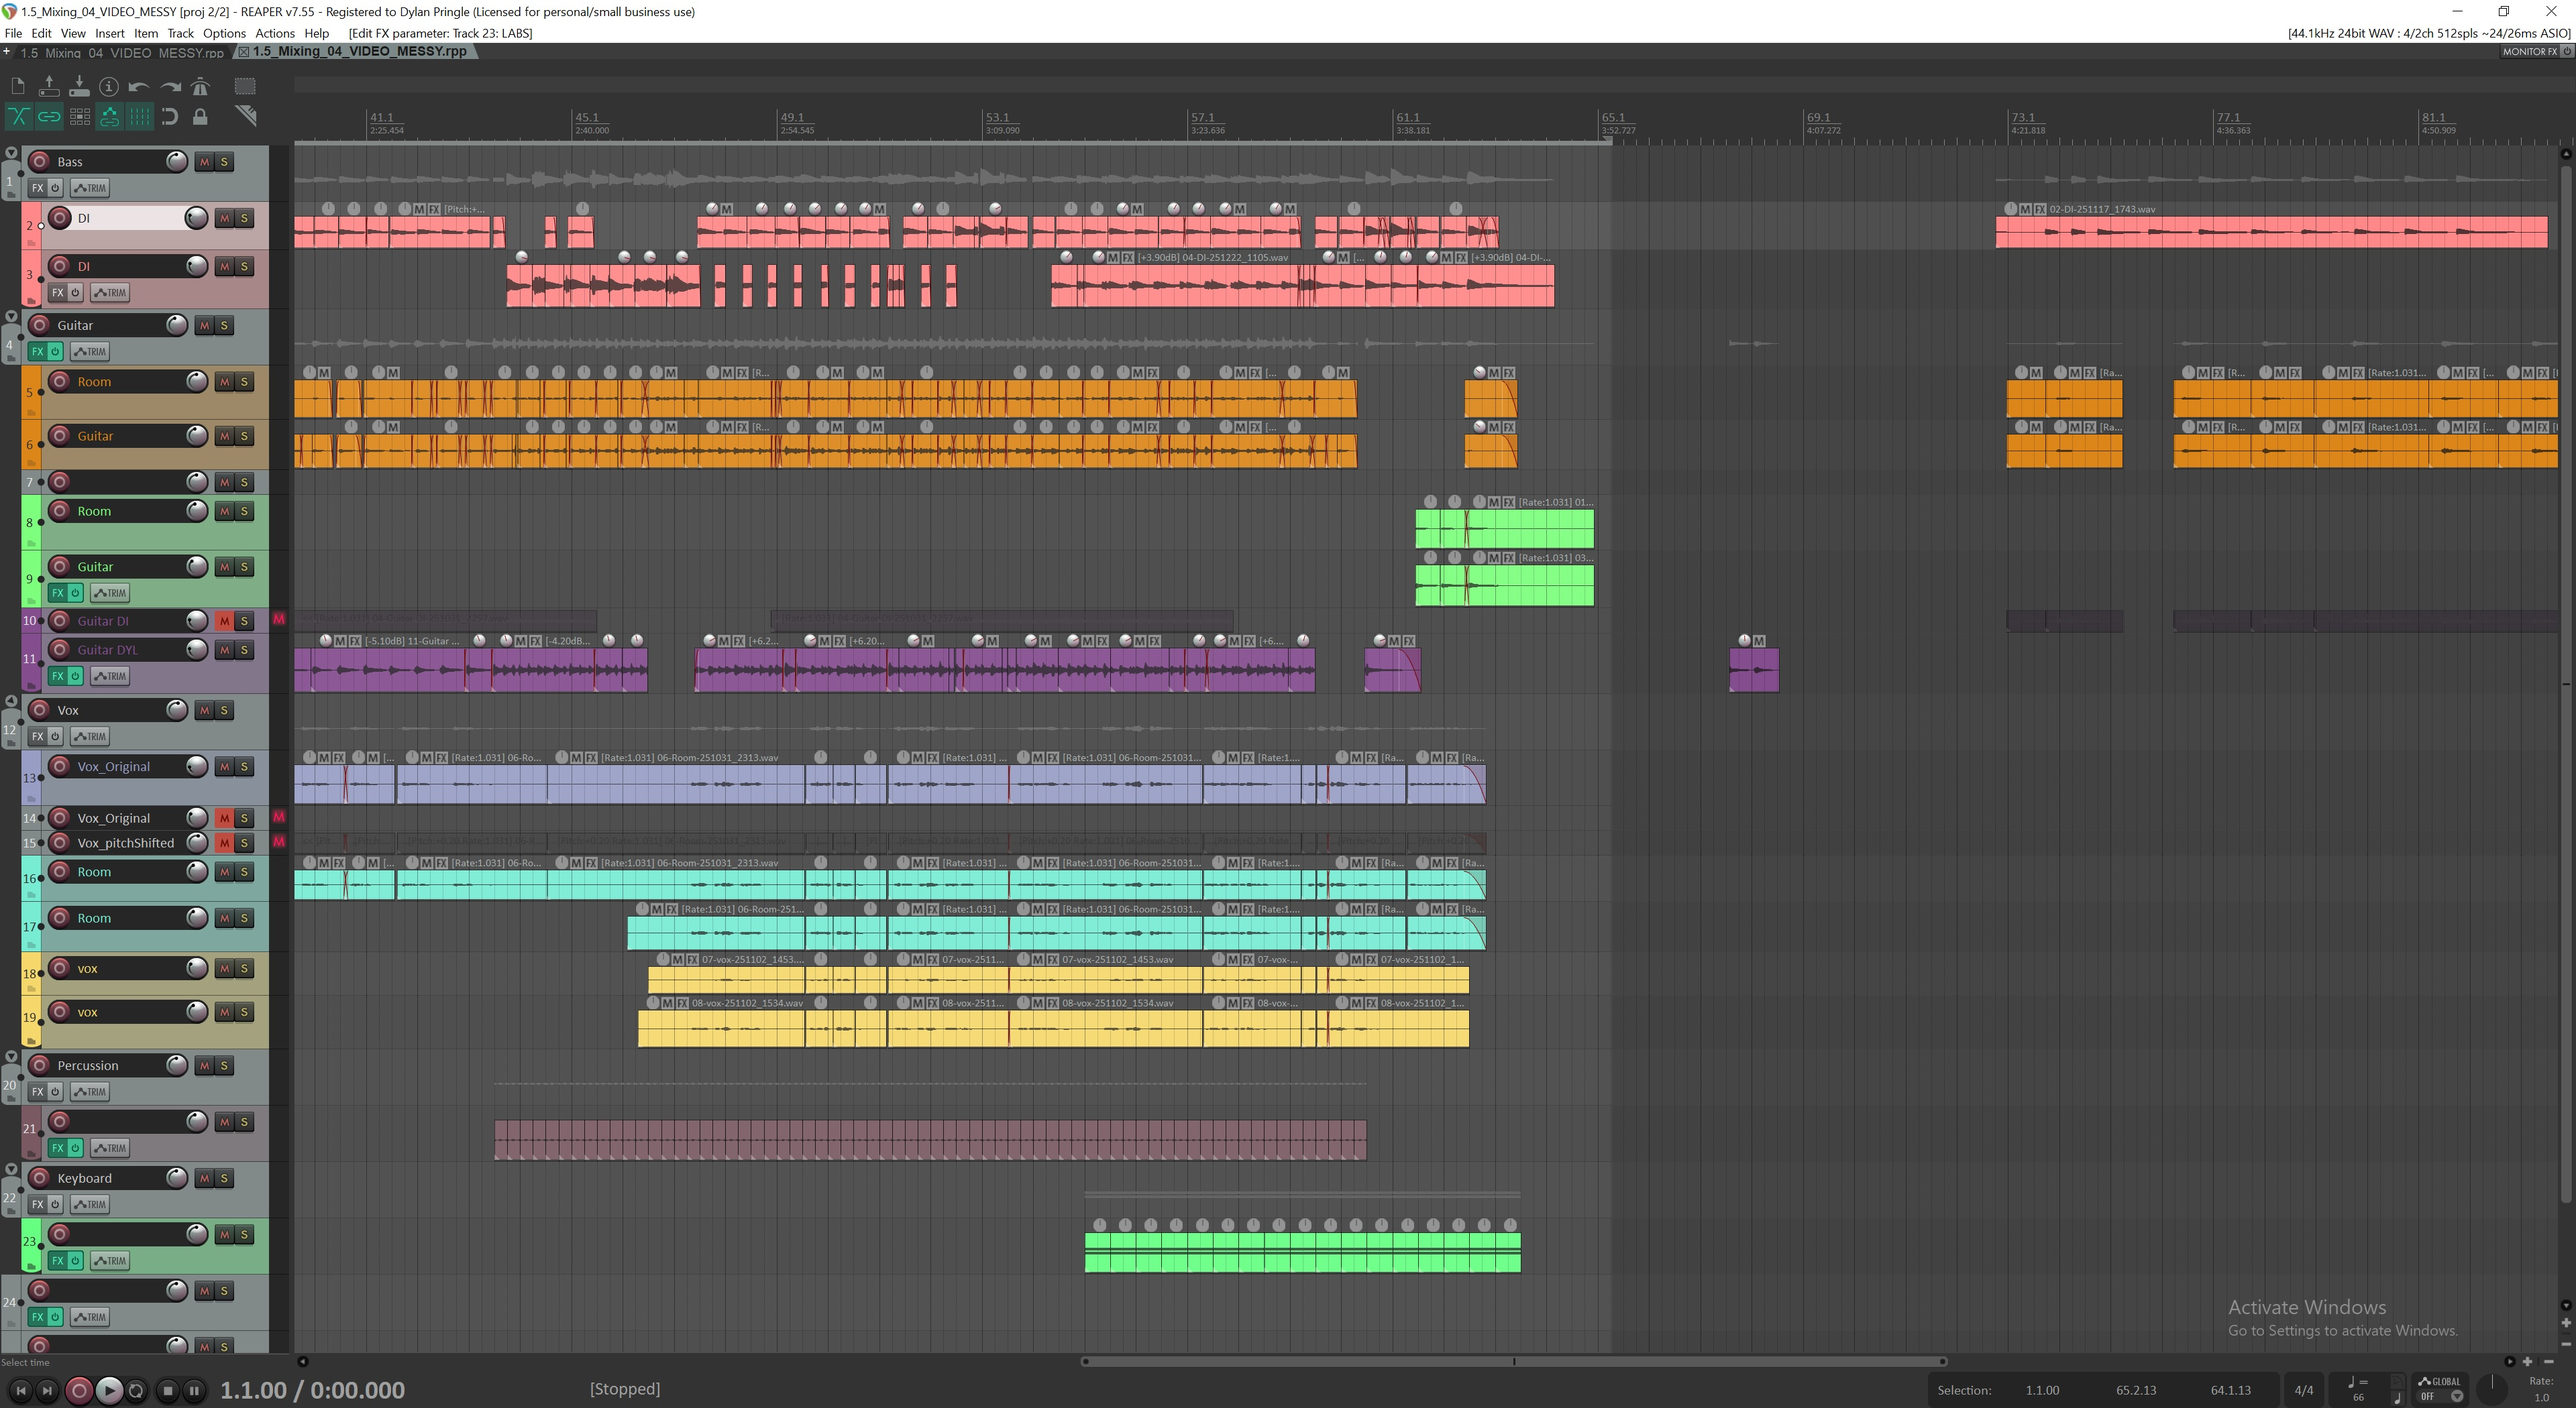
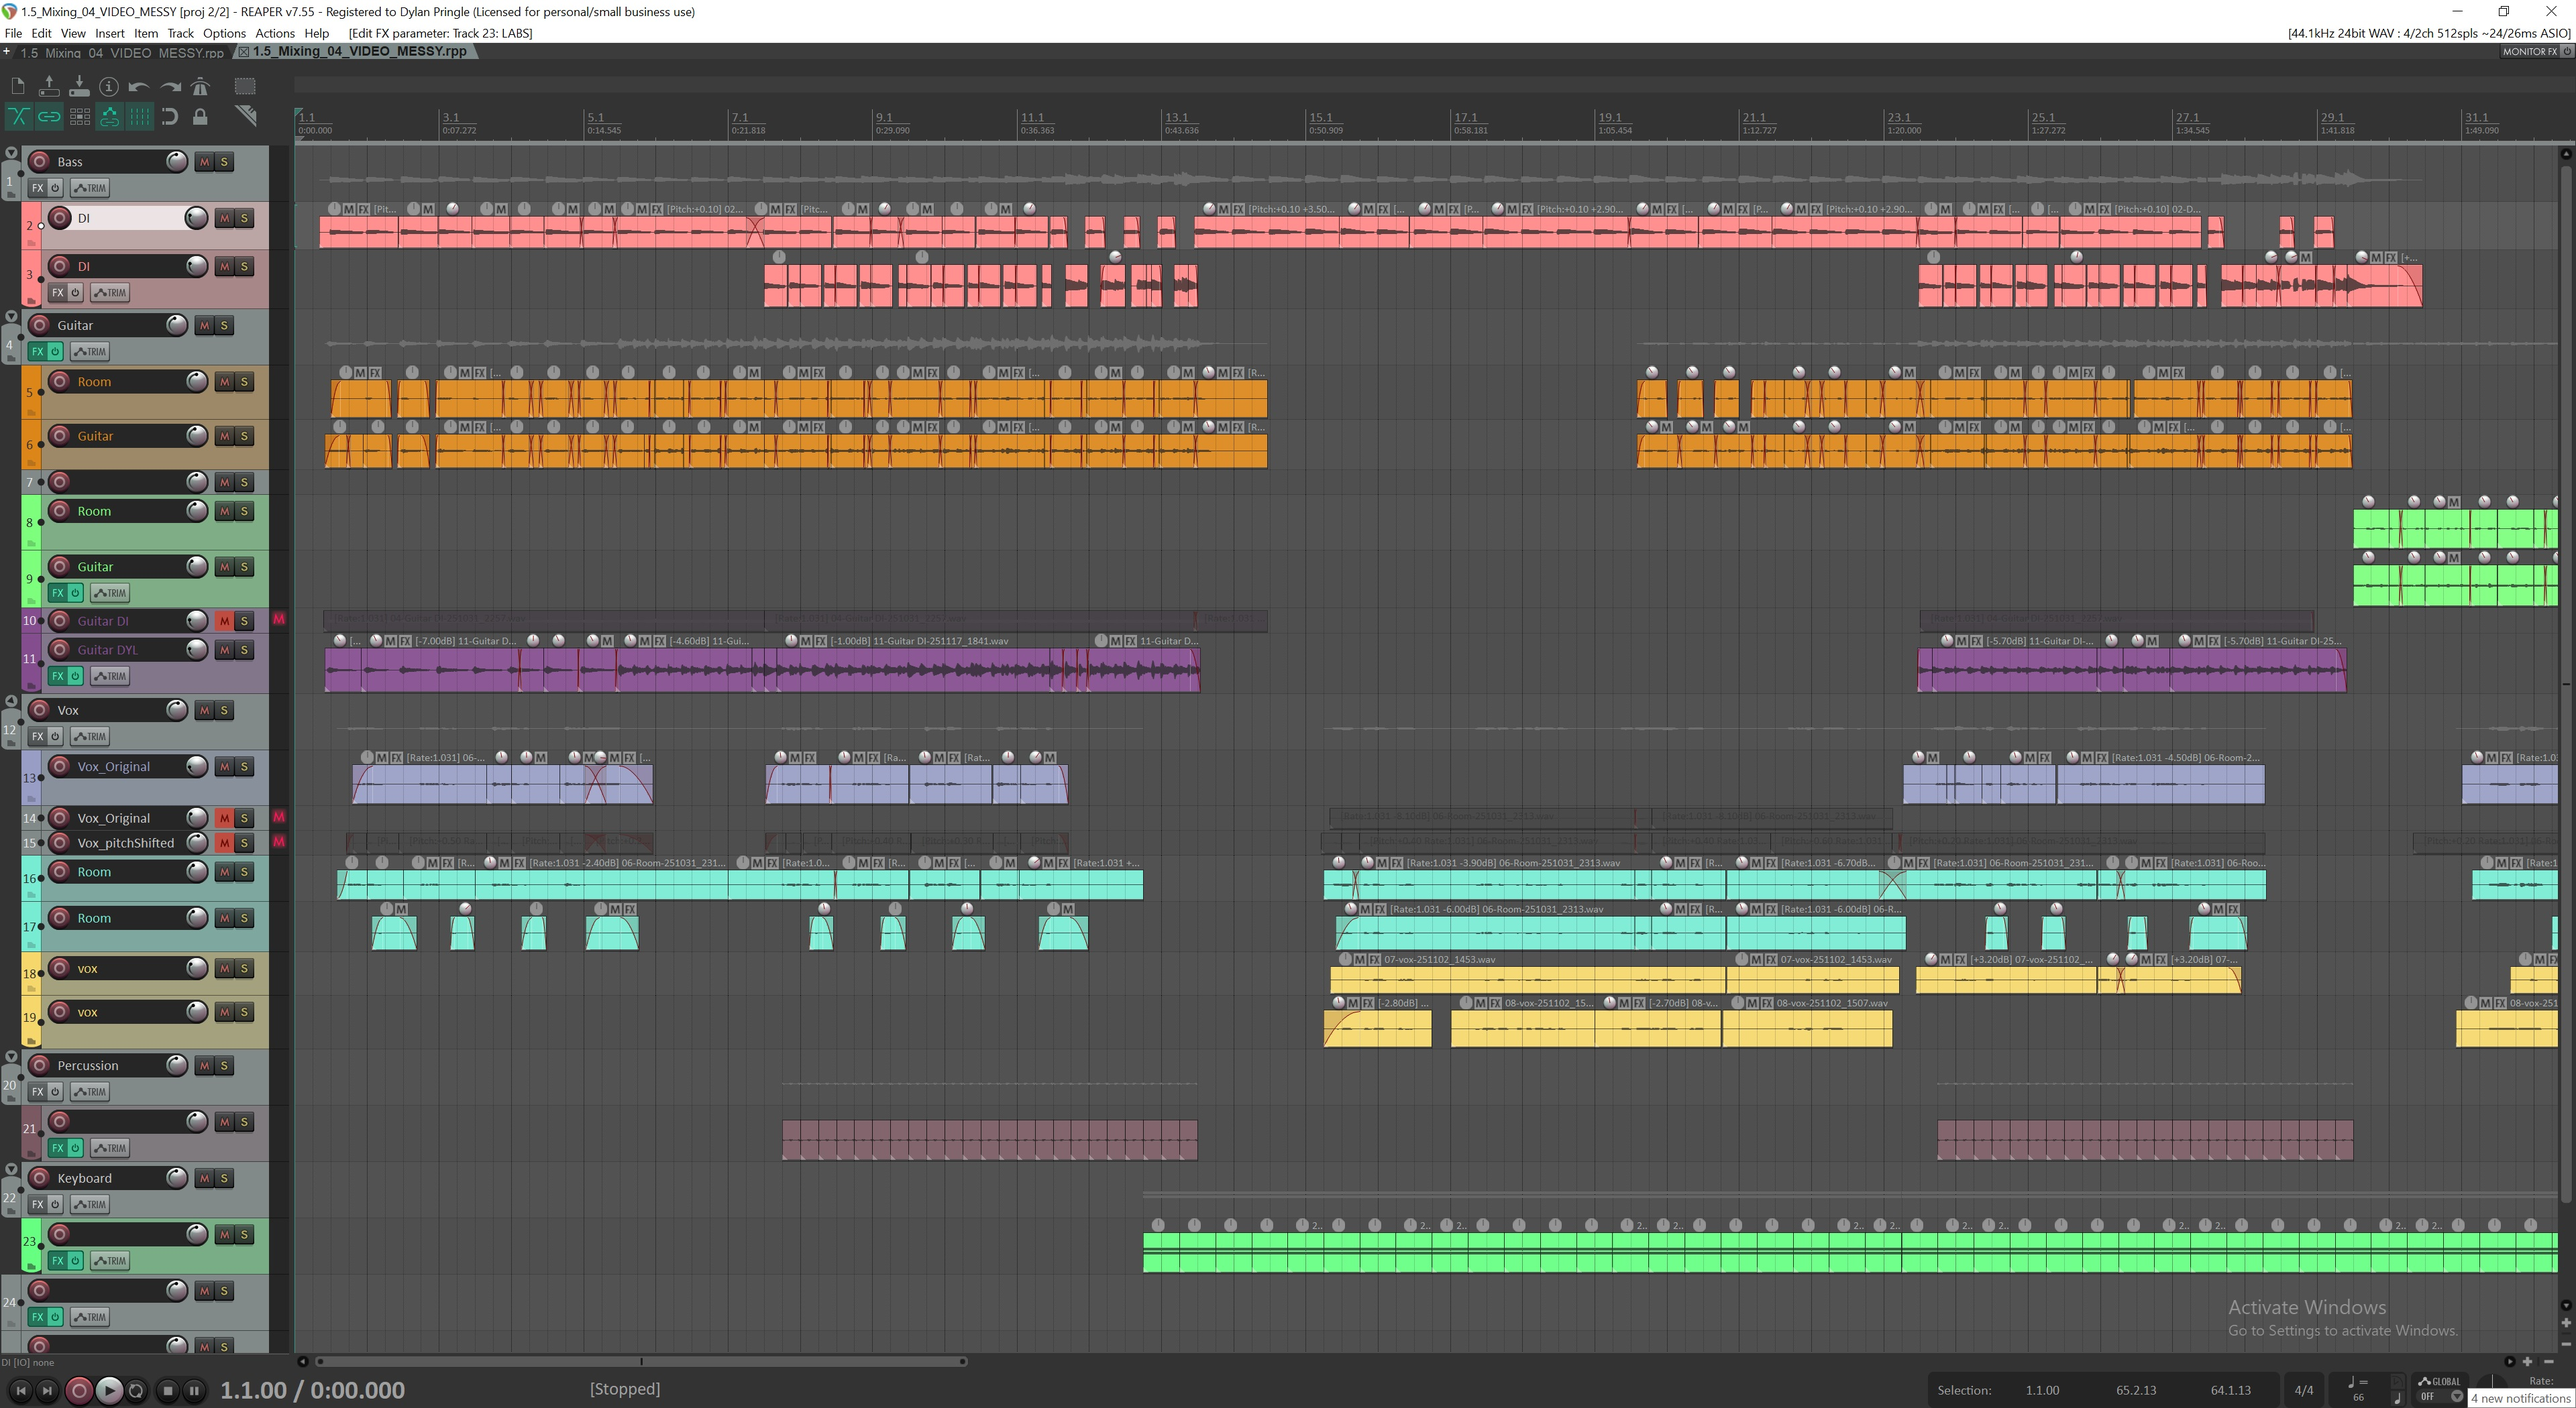
Yip more updates

diff --git a/index.html b/index.html
@@ -204,7 +204,7 @@
   }
   .spotlight-bg img{
     display:block; height:100%; width:auto; max-width:none;
-    -webkit-mask-image:radial-gradient(ellipse 100% 70% at 100% 50%, #000 12%, transparent 52%);
+    -webkit-mask-image:radial-gradient(ellipse 90% 70% at 100% 50%, #000 12%, transparent 100%);
     mask-image:radial-gradient(ellipse 90% 70% at 100% 50%, #000 12%, transparent 100%);
     opacity:.85;
   }
@@ -251,7 +251,21 @@
   .timecode{font-family:var(--font-mono); font-size:11px; color:var(--slate); display:flex; justify-content:space-between;}
 
   /* ---------- WORK GRID ---------- */
-  .work-grid{display:grid; grid-template-columns:repeat(2,1fr); gap:24px;}
+  #discography{position:relative; overflow:hidden;}
+  #discography .container{position:relative; z-index:1;}
+  .discography-bg{
+    position:absolute; inset:0;
+    pointer-events:none; z-index:0;
+  }
+  .discography-bg img{
+    display:block; width:100%; height:100%; object-fit:cover; object-position:center;
+    filter:grayscale(.25) brightness(.7) contrast(1.05);
+    -webkit-mask-image:linear-gradient(to bottom, transparent 0%, #000 58%, #000 82%, transparent 100%);
+    mask-image:linear-gradient(to bottom, transparent 0%, #000 58%, #000 82%, transparent 100%);
+    opacity:.8;
+  }
+  #discography .section-head{text-shadow:0 2px 18px rgba(22,27,34,0.9), 0 1px 4px rgba(22,27,34,0.95);}
+  .work-grid{position:relative; z-index:1; display:grid; grid-template-columns:repeat(2,1fr); gap:24px;}
   @media (max-width:720px){ .work-grid{grid-template-columns:1fr;} }
   .work-card{
     background:var(--ink-soft); background:var(--ink); color:var(--paper);
@@ -491,10 +505,13 @@
   </div>
 </section>
 
-<div class="divider dark"><div class="divider-wave" data-waveform="dark"></div></div>
+<!--<div class="divider dark"><div class="divider-wave" data-waveform="dark"></div></div>-->
 
 <!-- WORK GRID -->
-<section style="background:var(--ink);">
+<section id="discography" style="background:var(--ink);">
+  <div class="discography-bg" aria-hidden="true">
+    <img src="Assets/Images/ReaperScreenShot.jpg" alt="">
+  </div>
   <div class="container">
     <div class="section-head reveal-up">
       <div class="section-eyebrow" style="color:var(--signal);">Selected Work</div>
@@ -599,34 +616,34 @@
         <p>Beyond scoring Hatch Dragons, I voiced its mythical inhabitants — building a series of otherworldly, unique vocalisations for the game's creatures, recorded and designed entirely in the home studio.</p>
         <div class="media-placeholder">
           <svg viewBox="0 0 24 24" fill="none" stroke="#8891A0" stroke-width="1.5"><polygon points="23 7 16 12 23 17 23 7"/><rect x="1" y="5" width="15" height="14" rx="2"/></svg>
-          Voice reel — drop a video in here
+          Voice reel
         </div>
       </div>
       <div class="more-card reveal-up">
         <div class="more-icon"><svg viewBox="0 0 24 24" fill="none" stroke="#4FC8B8" stroke-width="1.6"><path d="M9 18V5l12-2v13"/><circle cx="6" cy="18" r="3"/><circle cx="18" cy="16" r="3"/></svg></div>
         <span class="tag" style="color:var(--signal);">Production &amp; Mentoring</span>
         <h3>Recording local artists</h3>
-        <p>In my spare time I record, produce, and mentor local musicians — helping them shape and release their own work, and passing on what running a studio and shipping records has taught me.</p>
+        <p>In my spare time I record, produce, and mentor local musicians — helping them shape and release their own work, whether in the studio or on the road with my mobile setup, capturing artists in their most comfortable spaces.</p>
         <div class="media-placeholder">
           <svg viewBox="0 0 24 24" fill="none" stroke="#8891A0" stroke-width="1.5"><polygon points="23 7 16 12 23 17 23 7"/><rect x="1" y="5" width="15" height="14" rx="2"/></svg>
-          Session footage — drop a video in here
+          Session footage
         </div>
       </div>
       <div class="more-card reveal-up">
         <div class="more-icon"><svg viewBox="0 0 24 24" fill="none" stroke="#E8A33D" stroke-width="1.6"><path d="M9 18V5l12-2v13"/><circle cx="6" cy="18" r="3"/><circle cx="18" cy="16" r="3"/></svg></div>
         <span class="tag">Independent Music</span>
         <h3>Dylan Pringle Music</h3>
-        <p>Outside of games, original music goes out under my own name — exploring melancholia, nostalgia, and serenity. The catalogue is closing in on 1,000 monthly listeners, with streams climbing 60–70 a day.</p>
+        <p>Outside of games, original music goes out under my own name — exploring all forms of human emotions, melancholia, nostalgia, anger and serenity. Experimentation is my art, who knows what I'll be creating tomorrow.</p>
         <div class="media-placeholder">
           <svg viewBox="0 0 24 24" fill="none" stroke="#8891A0" stroke-width="1.5"><path d="M9 18V5l12-2v13"/><circle cx="6" cy="18" r="3"/><circle cx="18" cy="16" r="3"/></svg>
-          Track — drop an audio file in here
+          Track
         </div>
       </div>
     </div>
   </div>
 </section>
 
-<div class="divider"><div class="divider-wave" data-waveform="light"></div></div>
+<!--<div class="divider"><div class="divider-wave" data-waveform="light"></div></div>-->
 
 <!-- STUDIO -->
 <section id="studio" style="position:relative; overflow:hidden;">
